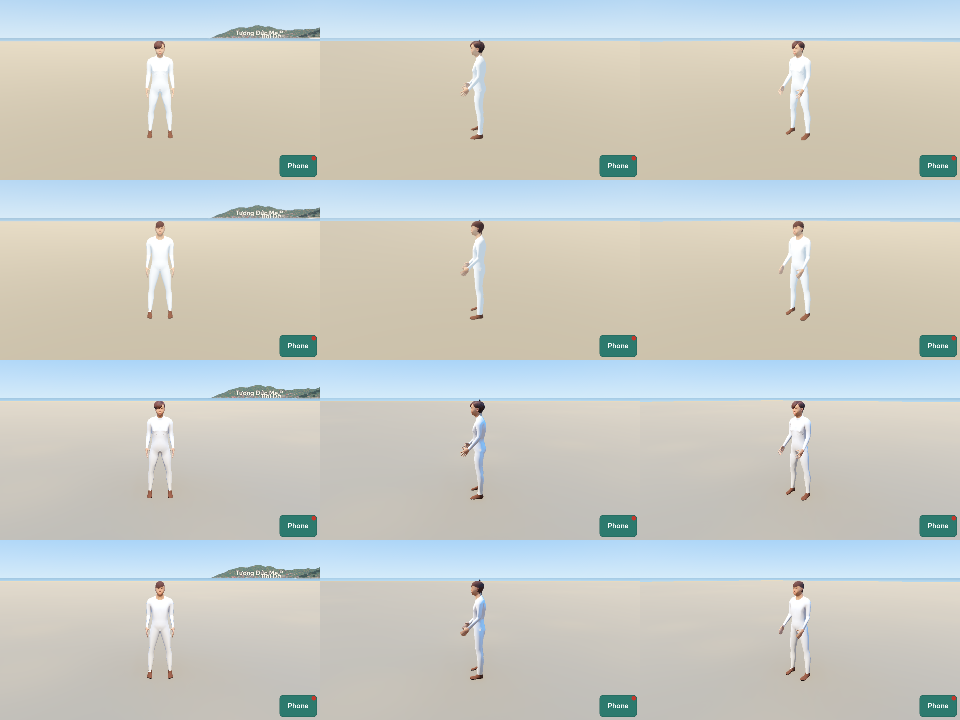
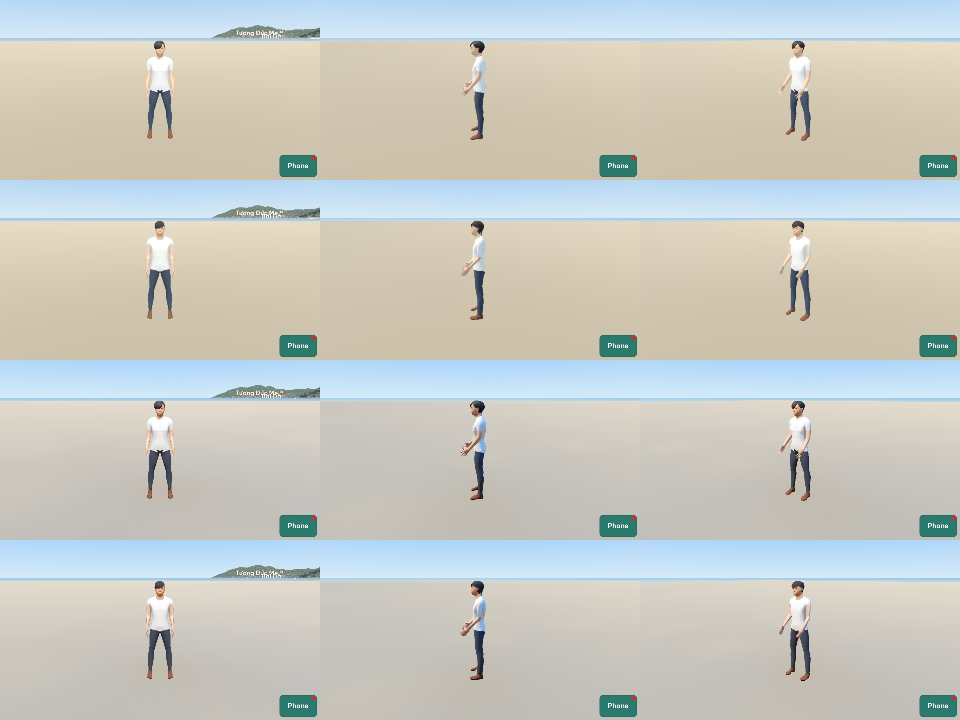
Make the review sheets of World again with the new aerobics people (plan 0026, R1)
PT-56 with the seven people of World 8fbf36c: each person wears a shirt
and trousers in its own colors, with dark hair, on all levels.

diff --git a/docs/world/index.html b/docs/world/index.html
@@ -4,6 +4,6 @@
 <style>body{font-family:sans-serif;margin:16px;max-width:980px;background:#fafafa;color:#222}
 img{max-width:100%;height:auto;border:1px solid #ccc}code{font-size:90%;word-break:break-all}</style></head>
 <body><h1>The models of World in Vũng Tàu</h1>
-<p>Plan 0023, PT-56. World commit <code>9dae4538d6af6fccc64cac6f9e1c7d0b081ddcf2</code>. The game gives the materials and the light.</p>
-<section><h2>scooter_tay_ga_1</h2><p>Catalog V1. Plan 0023, R9a: the parked scooters of the test street and of the Vũng Tàu world. Plans 0009 and 0018.</p><p>Order: <code>{&quot;blueprint&quot;: &quot;catalog&quot;, &quot;options&quot;: {&quot;name&quot;: &quot;honda_vision_110&quot;}}</code>, hash <code>176593c8c18de6bff70b0189e26ee31a</code>.</p><ul><li>Honda Vision 110 (2021, Việt Nam): length 1871 mm, width 686 mm, height 1101 mm, wheelbase 1255 mm, seat 761 mm.</li><li>Tires: 80/90-14 at the front, 90/90-14 at the back; a disc brake of 190 mm at the front.</li><li>The shapes of the body, the seat and the engine: by eye, from photos of the scooter.</li></ul><p>Rows: Low near, mid, far; High near, mid, far. Columns: front, side, three quarters. 12:00.</p><img src="sheet_scooter_tay_ga_1.png" alt="The sheet of scooter_tay_ga_1"></section><section><h2>ceiling_fan</h2><p>Catalog S4. Plan 0023, R9c: the ceiling fan of the front room of each shop of the test street, with the phở shop. Plan 0011.</p><p>Order: <code>{&quot;blueprint&quot;: &quot;catalog&quot;, &quot;options&quot;: {&quot;name&quot;: &quot;ceiling_fan_52in&quot;}}</code>, hash <code>3baef58f1befc276ff522c7260a595a4</code>.</p><ul><li>A ceiling fan of 52 in, a common size (the size of DIY: 52 by 52 by 12 in, no source).</li></ul><p>Rows: Low near, mid, far; High near, mid, far. Columns: front, side, three quarters. 12:00.</p><img src="sheet_ceiling_fan.png" alt="The sheet of ceiling_fan"></section><section><h2>aerobics_leader</h2><p>Catalog P7. Plan 0023, R9d: the aerobics group of the morning exercise at Bãi Trước, 05:00 to 06:30. The leader faces the group.</p><p>Order: <code>{&quot;blueprint&quot;: &quot;person&quot;, &quot;options&quot;: {&quot;gender&quot;: 0.0, &quot;age&quot;: 44, &quot;height&quot;: 0.5, &quot;weight&quot;: 0.42, &quot;skin&quot;: &quot;middleage_asian_female&quot;, &quot;eyebrows&quot;: &quot;eyebrow010&quot;, &quot;hair&quot;: &quot;ponytail01&quot;, &quot;clothes&quot;: [&quot;female_sportsuit01&quot;, &quot;shoes03&quot;], &quot;clothes_colors&quot;: [&quot;#c4362c&quot;], &quot;animations&quot;: [&quot;aerobics&quot;]}}</code>, hash <code>2816a8194761e78dacde414f636e74d7</code>.</p><ul><li>MakeHuman (CC0): the base mesh, the targets, the skeleton game_engine, and the assets middleage_asian_female, female_sportsuit01, shoes03.</li></ul><p>Rows: Low near, mid, far; High near, mid, far. Columns: front, side, three quarters. 12:00.</p><img src="sheet_aerobics_leader.png" alt="The sheet of aerobics_leader"></section><section><h2>aerobics_1</h2><p>Catalog P7. Plan 0023, R9d: the aerobics group of the morning exercise at Bãi Trước, 05:00 to 06:30.</p><p>Order: <code>{&quot;blueprint&quot;: &quot;person&quot;, &quot;options&quot;: {&quot;gender&quot;: 0.0, &quot;age&quot;: 52, &quot;height&quot;: 0.38, &quot;weight&quot;: 0.55, &quot;skin&quot;: &quot;middleage_asian_female&quot;, &quot;eyebrows&quot;: &quot;eyebrow010&quot;, &quot;hair&quot;: &quot;bob02&quot;, &quot;clothes&quot;: [&quot;female_casualsuit01&quot;, &quot;shoes02&quot;], &quot;clothes_colors&quot;: [&quot;#e9c7d8&quot;], &quot;animations&quot;: [&quot;aerobics&quot;]}}</code>, hash <code>e3cc3faf21202dae59cf784301dc9bb5</code>.</p><ul><li>MakeHuman (CC0): the base mesh, the targets, the skeleton game_engine, and the assets middleage_asian_female, female_casualsuit01, shoes02.</li></ul><p>Rows: Low near, mid, far; High near, mid, far. Columns: front, side, three quarters. 12:00.</p><img src="sheet_aerobics_1.png" alt="The sheet of aerobics_1"></section><section><h2>aerobics_2</h2><p>Catalog P7. Plan 0023, R9d: the aerobics group of the morning exercise at Bãi Trước, 05:00 to 06:30.</p><p>Order: <code>{&quot;blueprint&quot;: &quot;person&quot;, &quot;options&quot;: {&quot;gender&quot;: 0.0, &quot;age&quot;: 61, &quot;height&quot;: 0.33, &quot;weight&quot;: 0.6, &quot;skin&quot;: &quot;old_asian_female&quot;, &quot;eyebrows&quot;: &quot;eyebrow010&quot;, &quot;hair&quot;: &quot;bob02&quot;, &quot;hair_color&quot;: &quot;#b4b2ac&quot;, &quot;clothes&quot;: [&quot;female_casualsuit02&quot;, &quot;shoes05&quot;], &quot;clothes_colors&quot;: [&quot;#9bd39a&quot;], &quot;animations&quot;: [&quot;aerobics&quot;]}}</code>, hash <code>855142b6240530df29231da8adebf47b</code>.</p><ul><li>MakeHuman (CC0): the base mesh, the targets, the skeleton game_engine, and the assets old_asian_female, female_casualsuit02, shoes05.</li></ul><p>Rows: Low near, mid, far; High near, mid, far. Columns: front, side, three quarters. 12:00.</p><img src="sheet_aerobics_2.png" alt="The sheet of aerobics_2"></section><section><h2>aerobics_3</h2><p>Catalog P7. Plan 0023, R9d: the aerobics group of the morning exercise at Bãi Trước, 05:00 to 06:30.</p><p>Order: <code>{&quot;blueprint&quot;: &quot;person&quot;, &quot;options&quot;: {&quot;gender&quot;: 1.0, &quot;age&quot;: 58, &quot;height&quot;: 0.45, &quot;weight&quot;: 0.5, &quot;skin&quot;: &quot;middleage_asian_male&quot;, &quot;eyebrows&quot;: &quot;eyebrow001&quot;, &quot;hair&quot;: &quot;short03&quot;, &quot;clothes&quot;: [&quot;male_casualsuit03&quot;, &quot;shoes01&quot;], &quot;clothes_colors&quot;: [&quot;#f2f2f2&quot;], &quot;animations&quot;: [&quot;aerobics&quot;]}}</code>, hash <code>2ce31c16d125a48f96bf28dd5629fc4f</code>.</p><ul><li>MakeHuman (CC0): the base mesh, the targets, the skeleton game_engine, and the assets middleage_asian_male, male_casualsuit03, shoes01.</li></ul><p>Rows: Low near, mid, far; High near, mid, far. Columns: front, side, three quarters. 12:00.</p><img src="sheet_aerobics_3.png" alt="The sheet of aerobics_3"></section><section><h2>aerobics_4</h2><p>Catalog P7. Plan 0023, R9d: the aerobics group of the morning exercise at Bãi Trước, 05:00 to 06:30.</p><p>Order: <code>{&quot;blueprint&quot;: &quot;person&quot;, &quot;options&quot;: {&quot;gender&quot;: 0.0, &quot;age&quot;: 39, &quot;height&quot;: 0.52, &quot;weight&quot;: 0.4, &quot;skin&quot;: &quot;young_asian_female&quot;, &quot;eyebrows&quot;: &quot;eyebrow010&quot;, &quot;hair&quot;: &quot;ponytail01&quot;, &quot;clothes&quot;: [&quot;joepal_crude_t-shirt_female&quot;, &quot;cortu_cargo_pants&quot;, &quot;shoes04&quot;], &quot;clothes_colors&quot;: [&quot;#2f72c4&quot;], &quot;animations&quot;: [&quot;aerobics&quot;]}}</code>, hash <code>ee169e81c7215f9226ee8fd57214662f</code>.</p><ul><li>MakeHuman (CC0): the base mesh, the targets, the skeleton game_engine, and the assets young_asian_female, joepal_crude_t-shirt_female, cortu_cargo_pants, shoes04.</li></ul><p>Rows: Low near, mid, far; High near, mid, far. Columns: front, side, three quarters. 12:00.</p><img src="sheet_aerobics_4.png" alt="The sheet of aerobics_4"></section><section><h2>aerobics_5</h2><p>Catalog P7. Plan 0023, R9d: the aerobics group of the morning exercise at Bãi Trước, 05:00 to 06:30.</p><p>Order: <code>{&quot;blueprint&quot;: &quot;person&quot;, &quot;options&quot;: {&quot;gender&quot;: 0.0, &quot;age&quot;: 47, &quot;height&quot;: 0.42, &quot;weight&quot;: 0.62, &quot;skin&quot;: &quot;middleage_asian_female&quot;, &quot;eyebrows&quot;: &quot;eyebrow010&quot;, &quot;hair&quot;: &quot;ponytail01&quot;, &quot;clothes&quot;: [&quot;female_sportsuit01&quot;, &quot;shoes06&quot;], &quot;clothes_colors&quot;: [&quot;#f2c33c&quot;], &quot;animations&quot;: [&quot;aerobics&quot;]}}</code>, hash <code>97475aa6f60c3c9c7998cd4b6bea8d3c</code>.</p><ul><li>MakeHuman (CC0): the base mesh, the targets, the skeleton game_engine, and the assets middleage_asian_female, female_sportsuit01, shoes06.</li></ul><p>Rows: Low near, mid, far; High near, mid, far. Columns: front, side, three quarters. 12:00.</p><img src="sheet_aerobics_5.png" alt="The sheet of aerobics_5"></section><section><h2>aerobics_6</h2><p>Catalog P7. Plan 0023, R9d: the aerobics group of the morning exercise at Bãi Trước, 05:00 to 06:30.</p><p>Order: <code>{&quot;blueprint&quot;: &quot;person&quot;, &quot;options&quot;: {&quot;gender&quot;: 1.0, &quot;age&quot;: 64, &quot;height&quot;: 0.4, &quot;weight&quot;: 0.45, &quot;skin&quot;: &quot;old_asian_male&quot;, &quot;eyebrows&quot;: &quot;eyebrow001&quot;, &quot;hair&quot;: &quot;short04&quot;, &quot;hair_color&quot;: &quot;#b4b2ac&quot;, &quot;clothes&quot;: [&quot;elvs_crude_t-shirt_male&quot;, &quot;cortu_cargo_pants&quot;, &quot;shoes02&quot;], &quot;clothes_colors&quot;: [&quot;#2f72c4&quot;], &quot;animations&quot;: [&quot;aerobics&quot;]}}</code>, hash <code>dfc034633a36d5b8aa7305b8c918e929</code>.</p><ul><li>MakeHuman (CC0): the base mesh, the targets, the skeleton game_engine, and the assets old_asian_male, elvs_crude_t-shirt_male, cortu_cargo_pants, shoes02.</li></ul><p>Rows: Low near, mid, far; High near, mid, far. Columns: front, side, three quarters. 12:00.</p><img src="sheet_aerobics_6.png" alt="The sheet of aerobics_6"></section>
+<p>Plan 0023, PT-56. World commit <code>8fbf36c900beb492882713841c947847b94c3fba</code>. The game gives the materials and the light.</p>
+<section><h2>scooter_tay_ga_1</h2><p>Catalog V1. Plan 0023, R9a: the parked scooters of the test street and of the Vũng Tàu world. Plans 0009 and 0018.</p><p>Order: <code>{&quot;blueprint&quot;: &quot;catalog&quot;, &quot;options&quot;: {&quot;name&quot;: &quot;honda_vision_110&quot;}}</code>, hash <code>176593c8c18de6bff70b0189e26ee31a</code>.</p><ul><li>Honda Vision 110 (2021, Việt Nam): length 1871 mm, width 686 mm, height 1101 mm, wheelbase 1255 mm, seat 761 mm.</li><li>Tires: 80/90-14 at the front, 90/90-14 at the back; a disc brake of 190 mm at the front.</li><li>The shapes of the body, the seat and the engine: by eye, from photos of the scooter.</li></ul><p>Rows: Low near, mid, far; High near, mid, far. Columns: front, side, three quarters. 12:00.</p><img src="sheet_scooter_tay_ga_1.png" alt="The sheet of scooter_tay_ga_1"></section><section><h2>ceiling_fan</h2><p>Catalog S4. Plan 0023, R9c: the ceiling fan of the front room of each shop of the test street, with the phở shop. Plan 0011.</p><p>Order: <code>{&quot;blueprint&quot;: &quot;catalog&quot;, &quot;options&quot;: {&quot;name&quot;: &quot;ceiling_fan_52in&quot;}}</code>, hash <code>3baef58f1befc276ff522c7260a595a4</code>.</p><ul><li>A ceiling fan of 52 in, a common size (the size of DIY: 52 by 52 by 12 in, no source).</li></ul><p>Rows: Low near, mid, far; High near, mid, far. Columns: front, side, three quarters. 12:00.</p><img src="sheet_ceiling_fan.png" alt="The sheet of ceiling_fan"></section><section><h2>aerobics_leader</h2><p>Catalog P7. Plan 0023, R9d: the aerobics group of the morning exercise at Bãi Trước, 05:00 to 06:30. The leader faces the group.</p><p>Order: <code>{&quot;blueprint&quot;: &quot;person&quot;, &quot;options&quot;: {&quot;gender&quot;: 0.0, &quot;age&quot;: 44, &quot;height&quot;: 0.5, &quot;weight&quot;: 0.42, &quot;skin&quot;: &quot;middleage_asian_female&quot;, &quot;eyebrows&quot;: &quot;eyebrow010&quot;, &quot;hair&quot;: &quot;ponytail01&quot;, &quot;hair_color&quot;: &quot;#2e2925&quot;, &quot;clothes&quot;: [&quot;female_sportsuit01&quot;, &quot;shoes03&quot;], &quot;clothes_colors&quot;: [&quot;#c4362c&quot;], &quot;animations&quot;: [&quot;aerobics&quot;]}}</code>, hash <code>2c3472ba15ce628c364e9e03cfe6f5b3</code>.</p><ul><li>MakeHuman (CC0): the base mesh, the targets, the skeleton game_engine, and the assets middleage_asian_female, female_sportsuit01, shoes03.</li></ul><p>Rows: Low near, mid, far; High near, mid, far. Columns: front, side, three quarters. 12:00.</p><img src="sheet_aerobics_leader.png" alt="The sheet of aerobics_leader"></section><section><h2>aerobics_1</h2><p>Catalog P7. Plan 0023, R9d: the aerobics group of the morning exercise at Bãi Trước, 05:00 to 06:30.</p><p>Order: <code>{&quot;blueprint&quot;: &quot;person&quot;, &quot;options&quot;: {&quot;gender&quot;: 0.0, &quot;age&quot;: 52, &quot;height&quot;: 0.38, &quot;weight&quot;: 0.55, &quot;skin&quot;: &quot;middleage_asian_female&quot;, &quot;eyebrows&quot;: &quot;eyebrow010&quot;, &quot;hair&quot;: &quot;bob02&quot;, &quot;hair_color&quot;: &quot;#2e2925&quot;, &quot;clothes&quot;: [&quot;world_t_shirt&quot;, &quot;mindfront_female_trousers_1&quot;, &quot;shoes02&quot;], &quot;clothes_colors&quot;: [&quot;#7d5a9b&quot;, &quot;#2b2d35&quot;], &quot;animations&quot;: [&quot;aerobics&quot;]}}</code>, hash <code>5c96d5d87acd0e6708eb20f40d2671eb</code>.</p><ul><li>MakeHuman (CC0): the base mesh, the targets, the skeleton game_engine, and the assets middleage_asian_female, world_t_shirt, mindfront_female_trousers_1, shoes02.</li></ul><p>Rows: Low near, mid, far; High near, mid, far. Columns: front, side, three quarters. 12:00.</p><img src="sheet_aerobics_1.png" alt="The sheet of aerobics_1"></section><section><h2>aerobics_2</h2><p>Catalog P7. Plan 0023, R9d: the aerobics group of the morning exercise at Bãi Trước, 05:00 to 06:30.</p><p>Order: <code>{&quot;blueprint&quot;: &quot;person&quot;, &quot;options&quot;: {&quot;gender&quot;: 0.0, &quot;age&quot;: 61, &quot;height&quot;: 0.33, &quot;weight&quot;: 0.6, &quot;skin&quot;: &quot;old_asian_female&quot;, &quot;eyebrows&quot;: &quot;eyebrow010&quot;, &quot;hair&quot;: &quot;bob02&quot;, &quot;hair_color&quot;: &quot;#b4b2ac&quot;, &quot;clothes&quot;: [&quot;world_t_shirt&quot;, &quot;mindfront_female_trousers_1&quot;, &quot;shoes05&quot;], &quot;clothes_colors&quot;: [&quot;#5f9e74&quot;, &quot;#4a4e57&quot;], &quot;animations&quot;: [&quot;aerobics&quot;]}}</code>, hash <code>132ea244047156e5b68258ed5a6ba388</code>.</p><ul><li>MakeHuman (CC0): the base mesh, the targets, the skeleton game_engine, and the assets old_asian_female, world_t_shirt, mindfront_female_trousers_1, shoes05.</li></ul><p>Rows: Low near, mid, far; High near, mid, far. Columns: front, side, three quarters. 12:00.</p><img src="sheet_aerobics_2.png" alt="The sheet of aerobics_2"></section><section><h2>aerobics_3</h2><p>Catalog P7. Plan 0023, R9d: the aerobics group of the morning exercise at Bãi Trước, 05:00 to 06:30.</p><p>Order: <code>{&quot;blueprint&quot;: &quot;person&quot;, &quot;options&quot;: {&quot;gender&quot;: 1.0, &quot;age&quot;: 58, &quot;height&quot;: 0.45, &quot;weight&quot;: 0.5, &quot;skin&quot;: &quot;middleage_asian_male&quot;, &quot;eyebrows&quot;: &quot;eyebrow001&quot;, &quot;hair&quot;: &quot;short03&quot;, &quot;hair_color&quot;: &quot;#2e2925&quot;, &quot;clothes&quot;: [&quot;namuhekam_male_polo_shirt&quot;, &quot;mindfront_male_trousers_1&quot;, &quot;shoes01&quot;], &quot;clothes_colors&quot;: [&quot;#e8e6e0&quot;, &quot;#3a3f4a&quot;], &quot;animations&quot;: [&quot;aerobics&quot;]}}</code>, hash <code>82e4567e7562840d5b4c541d1978507a</code>.</p><ul><li>MakeHuman (CC0): the base mesh, the targets, the skeleton game_engine, and the assets middleage_asian_male, namuhekam_male_polo_shirt, mindfront_male_trousers_1, shoes01.</li></ul><p>Rows: Low near, mid, far; High near, mid, far. Columns: front, side, three quarters. 12:00.</p><img src="sheet_aerobics_3.png" alt="The sheet of aerobics_3"></section><section><h2>aerobics_4</h2><p>Catalog P7. Plan 0023, R9d: the aerobics group of the morning exercise at Bãi Trước, 05:00 to 06:30.</p><p>Order: <code>{&quot;blueprint&quot;: &quot;person&quot;, &quot;options&quot;: {&quot;gender&quot;: 0.0, &quot;age&quot;: 39, &quot;height&quot;: 0.52, &quot;weight&quot;: 0.4, &quot;skin&quot;: &quot;young_asian_female&quot;, &quot;eyebrows&quot;: &quot;eyebrow010&quot;, &quot;hair&quot;: &quot;ponytail01&quot;, &quot;hair_color&quot;: &quot;#2e2925&quot;, &quot;clothes&quot;: [&quot;joepal_crude_t-shirt_female&quot;, &quot;cortu_cargo_pants&quot;, &quot;shoes04&quot;], &quot;clothes_colors&quot;: [&quot;#2f72c4&quot;], &quot;animations&quot;: [&quot;aerobics&quot;]}}</code>, hash <code>c7265644136b720c1ab08fbce2dfb670</code>.</p><ul><li>MakeHuman (CC0): the base mesh, the targets, the skeleton game_engine, and the assets young_asian_female, joepal_crude_t-shirt_female, cortu_cargo_pants, shoes04.</li></ul><p>Rows: Low near, mid, far; High near, mid, far. Columns: front, side, three quarters. 12:00.</p><img src="sheet_aerobics_4.png" alt="The sheet of aerobics_4"></section><section><h2>aerobics_5</h2><p>Catalog P7. Plan 0023, R9d: the aerobics group of the morning exercise at Bãi Trước, 05:00 to 06:30.</p><p>Order: <code>{&quot;blueprint&quot;: &quot;person&quot;, &quot;options&quot;: {&quot;gender&quot;: 0.0, &quot;age&quot;: 47, &quot;height&quot;: 0.42, &quot;weight&quot;: 0.62, &quot;skin&quot;: &quot;middleage_asian_female&quot;, &quot;eyebrows&quot;: &quot;eyebrow010&quot;, &quot;hair&quot;: &quot;ponytail01&quot;, &quot;hair_color&quot;: &quot;#2e2925&quot;, &quot;clothes&quot;: [&quot;female_sportsuit01&quot;, &quot;shoes06&quot;], &quot;clothes_colors&quot;: [&quot;#f2c33c&quot;], &quot;animations&quot;: [&quot;aerobics&quot;]}}</code>, hash <code>3277521b53166a3fc009cab71673b3a2</code>.</p><ul><li>MakeHuman (CC0): the base mesh, the targets, the skeleton game_engine, and the assets middleage_asian_female, female_sportsuit01, shoes06.</li></ul><p>Rows: Low near, mid, far; High near, mid, far. Columns: front, side, three quarters. 12:00.</p><img src="sheet_aerobics_5.png" alt="The sheet of aerobics_5"></section><section><h2>aerobics_6</h2><p>Catalog P7. Plan 0023, R9d: the aerobics group of the morning exercise at Bãi Trước, 05:00 to 06:30.</p><p>Order: <code>{&quot;blueprint&quot;: &quot;person&quot;, &quot;options&quot;: {&quot;gender&quot;: 1.0, &quot;age&quot;: 64, &quot;height&quot;: 0.4, &quot;weight&quot;: 0.45, &quot;skin&quot;: &quot;old_asian_male&quot;, &quot;eyebrows&quot;: &quot;eyebrow001&quot;, &quot;hair&quot;: &quot;short04&quot;, &quot;hair_color&quot;: &quot;#b4b2ac&quot;, &quot;clothes&quot;: [&quot;elvs_crude_t-shirt_male&quot;, &quot;cortu_cargo_pants&quot;, &quot;shoes02&quot;], &quot;clothes_colors&quot;: [&quot;#2f72c4&quot;], &quot;animations&quot;: [&quot;aerobics&quot;]}}</code>, hash <code>dfc034633a36d5b8aa7305b8c918e929</code>.</p><ul><li>MakeHuman (CC0): the base mesh, the targets, the skeleton game_engine, and the assets old_asian_male, elvs_crude_t-shirt_male, cortu_cargo_pants, shoes02.</li></ul><p>Rows: Low near, mid, far; High near, mid, far. Columns: front, side, three quarters. 12:00.</p><img src="sheet_aerobics_6.png" alt="The sheet of aerobics_6"></section>
 </body></html>
